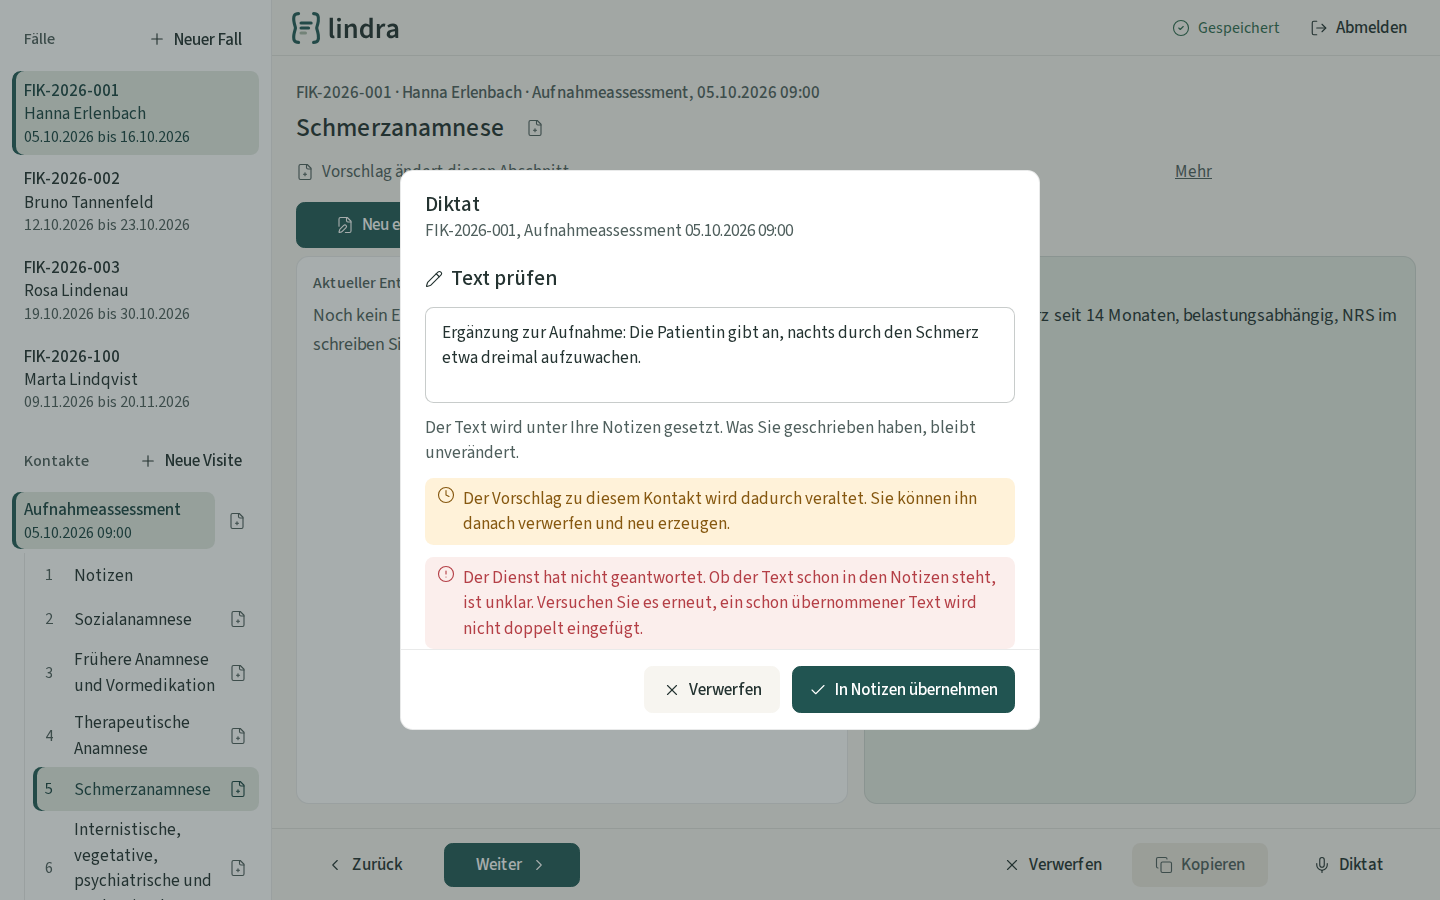
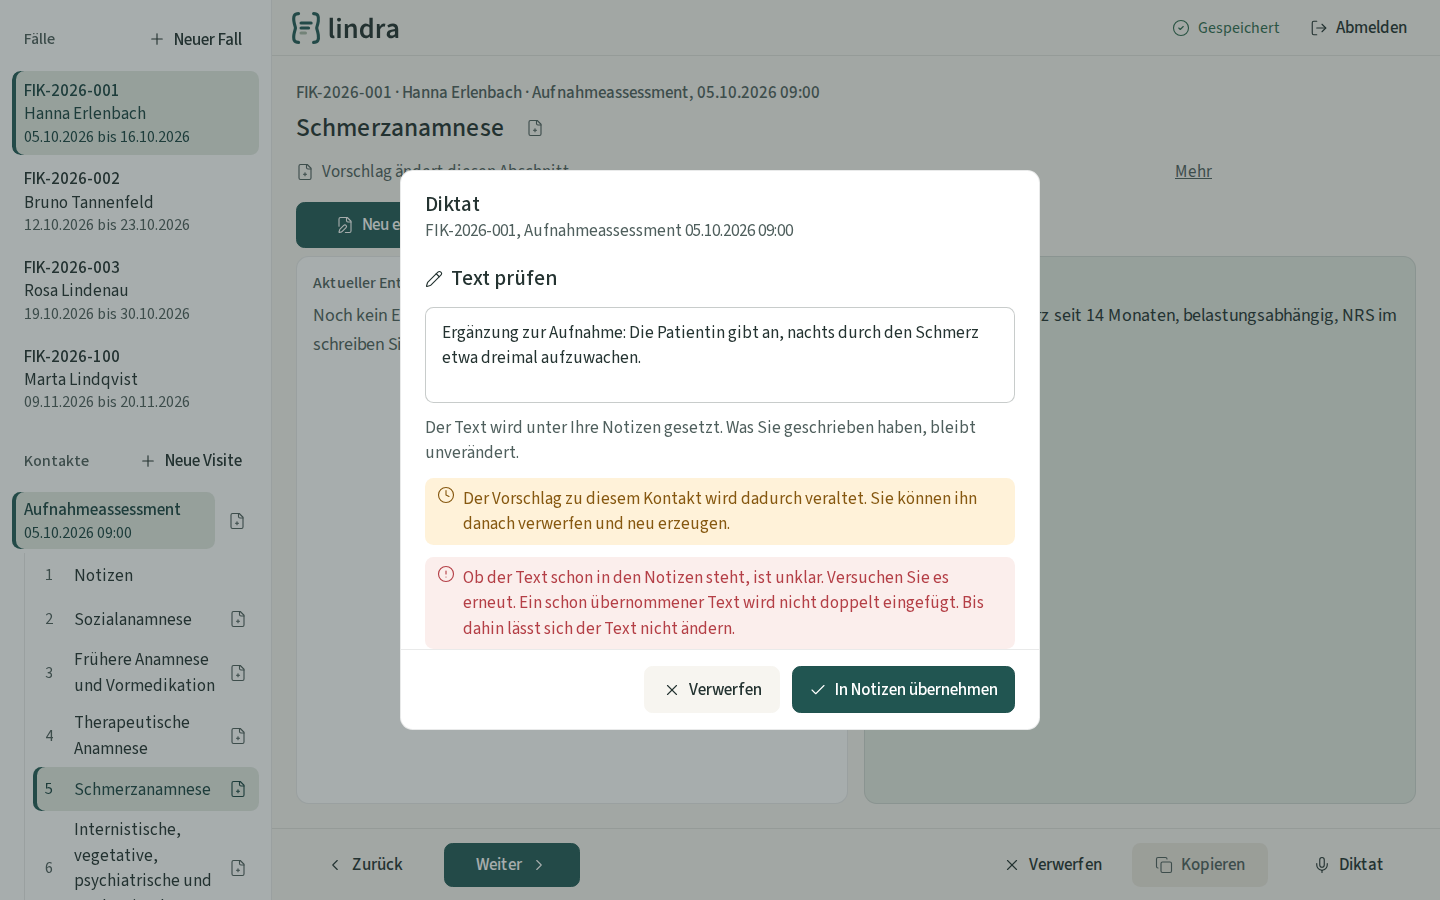
LFR-10: review fixes: lock the transcript while the outcome is unclear, clearer wording, browser flow covers 422 and 500, cascade test

Changed region(s): [[0.3125, 0.6222, 0.6875, 0.7156]]

diff --git a/lindra/static/js/dictation.js b/lindra/static/js/dictation.js
@@ -31,8 +31,9 @@ if (dialog && control) {
   let dictationId = null; // names the transcript under review
 
   // The service did not answer, or failed after it may have saved: the append may have happened.
+  // The text is locked meanwhile: the service keeps the first text it received for this id.
   const UNSURE =
-    "Der Dienst hat nicht geantwortet. Ob der Text schon in den Notizen steht, ist unklar. Versuchen Sie es erneut, ein schon übernommener Text wird nicht doppelt eingefügt.";
+    "Ob der Text schon in den Notizen steht, ist unklar. Versuchen Sie es erneut. Ein schon übernommener Text wird nicht doppelt eingefügt. Bis dahin lässt sich der Text nicht ändern.";
 
   function newId() {
     if (crypto.randomUUID) return crypto.randomUUID();
@@ -69,6 +70,7 @@ if (dialog && control) {
     recording = null;
     retry = null;
     field.value = "";
+    field.readOnly = false;
     ended = true;
     dialog.close();
     control.focus();
@@ -162,6 +164,7 @@ if (dialog && control) {
     // One id per transcript, kept for every attempt to accept it: the service adds the passage
     // once however often the same id arrives.
     dictationId = newId();
+    field.readOnly = false;
     field.value = result.transcript;
     outdates.hidden = !result.outdates_proposal;
     acceptError.hidden = true;
@@ -169,7 +172,8 @@ if (dialog && control) {
     show("reviewing");
   }
 
-  function rejected(message) {
+  function rejected(message, locked = false) {
+    field.readOnly = locked;
     acceptError.querySelector("span").textContent = message;
     acceptError.hidden = false;
     acceptError.scrollIntoView({ block: "nearest" });
@@ -194,11 +198,11 @@ if (dialog && control) {
         credentials: "same-origin",
       });
     } catch {
-      rejected(UNSURE);
+      rejected(UNSURE, true);
       return;
     }
     if (response.status >= 500) {
-      rejected(UNSURE);
+      rejected(UNSURE, true);
       return;
     }
     if (!response.ok) {

diff --git a/scripts/screenshots.py b/scripts/screenshots.py
@@ -1044,17 +1044,35 @@ def dictation_screens(page: Page, base_url: str, out: Path, name: str) -> list[s
     if api_encounter(base_url, page) != before:
         findings.append(f"{name}: recording and transcribing changed the encounter")
 
-    # Correct the transcript; a refused accept keeps it, the next one appends it.
+    # Correct the transcript. A refusal (422) says the notes are unchanged and keeps the text
+    # editable; a server error (500) says it is unclear and locks the text; neither loses it.
     page.fill("[data-transcript]", corrected)
-    page.route(accept_route, lambda route: route.fulfill(status=500, body="{}"))
+    page.route(
+        accept_route,
+        lambda route: route.fulfill(
+            status=422,
+            content_type="application/json",
+            body='{"errors": {"transcript": "Kein Text zum Übernehmen"}}',
+        ),
+    )
     page.click("[data-accept]")
     page.wait_for_selector("[data-accept-error]:not([hidden])")
+    refused = page.inner_text("[data-accept-error]")
+    if "Kein Text zum Übernehmen" not in refused or "Die Notizen sind unverändert" not in refused:
+        findings.append(f"{name}: a refused accept reads {refused!r}")
+    if page.is_editable("[data-transcript]") is False:
+        findings.append(f"{name}: a refused accept locked the text")
+    page.unroute(accept_route)
+    page.route(accept_route, lambda route: route.fulfill(status=500, body="{}"))
+    page.click("[data-accept]")
+    page.wait_for_function("document.querySelector('[data-transcript]').readOnly")
     if page.input_value("[data-transcript]") != corrected or page.is_disabled("[data-accept]"):
-        findings.append(f"{name}: a refused accept lost the corrected text or its button")
+        findings.append(f"{name}: a server error lost the corrected text or its button")
     if api_encounter(base_url, page) != before:
         findings.append(f"{name}: a refused accept changed the notes")
-    if "Die Notizen sind unverändert" in page.inner_text("[data-accept-error]"):
-        findings.append(f"{name}: a server error claims the notes are unchanged")
+    unsure = page.inner_text("[data-accept-error]")
+    if "unklar" not in unsure or "Die Notizen sind unverändert" in unsure:
+        findings.append(f"{name}: a server error reads {unsure!r}")
     page.unroute(accept_route)
 
     # The answer is lost after the service appended: the overlay does not claim the notes are

diff --git a/tests/test_dictation_api.py b/tests/test_dictation_api.py
@@ -349,6 +349,18 @@ def test_a_dictation_id_belongs_to_its_encounter(client):
     assert "Für die Visite." not in admission.notes()["notes"]
 
 
+def test_deleting_a_case_forgets_its_dictations(client):
+    old = Encounter(client)
+    dictation_id = new_dictation_id()
+    accept_dictation(old, "Im alten Fall.", dictation_id)
+
+    # Seeding again deletes the case; its encounter ids may be given out to the new cast.
+    new = Encounter(client)
+    accept_dictation(new, "Im neuen Fall.", dictation_id)
+
+    assert "Im neuen Fall." in new.notes()["notes"]
+
+
 def test_a_refused_transcript_does_not_use_up_its_dictation_id(assessment):
     typed = "x" * 99_990
     assessment.save_notes(typed)
